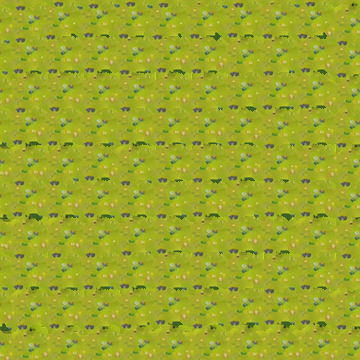
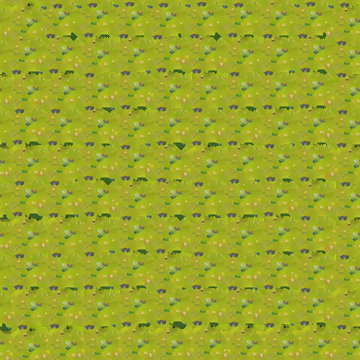
概念圖對齊（五）：土路材質色調對齊概念圖整體土色
乾淨樣本是向陽亮土，平均/標準差改配到 (205,150,80)/(18,18,14)；村莊三種縮放的色票符合度都高於調整前線上版。

diff --git a/pipeline/scripts/align/concept_textures.py b/pipeline/scripts/align/concept_textures.py
@@ -44,6 +44,10 @@ def masks(im):
 DARK = {"stone": (105, .004), "earth": (85, .004), "grass": (30, .03)}   # (亮度門檻, 容許比例)：擋角色描邊、陰影塊；草地本來就有暗草叢
 
 
+# 土路：概念圖乾淨土 (235,180,94) 與整體可見土色 (176,122,66) 的中點，對比加大
+TONE = {"earth": ((205, 150, 80), (18, 18, 14))}
+
+
 def candidates(im, mask, k=260, dark=(0, 0)):
     out = []
     lum = im @ np.array([.299, .587, .114], np.float32)
@@ -112,6 +116,10 @@ def main():
     for name, m in masks(im).items():
         c = candidates(im, m, dark=DARK[name])
         tile = quilt(c)
+        if name in TONE:   # 乾淨樣本都是向陽的亮土；概念圖整體看到的土路較暗（陰影、踩踏）→ 平均/標準差配過去
+            mean, sd = np.array(TONE[name][0], np.float32), np.array(TONE[name][1], np.float32)
+            t = tile.reshape(-1, 3); m0, s0 = t.mean(0), np.maximum(t.std(0), 1)
+            tile = ((tile - m0) / s0 * sd + mean)
         Image.fromarray(np.clip(tile, 0, 255).astype(np.uint8)).save(ROOT / "assets" / f"concept-{name}.png", optimize=True)
         print(f"concept-{name}.png {N}x{N} from {len(c)} samples, mean {tile.reshape(-1, 3).mean(0).round()}")
 
